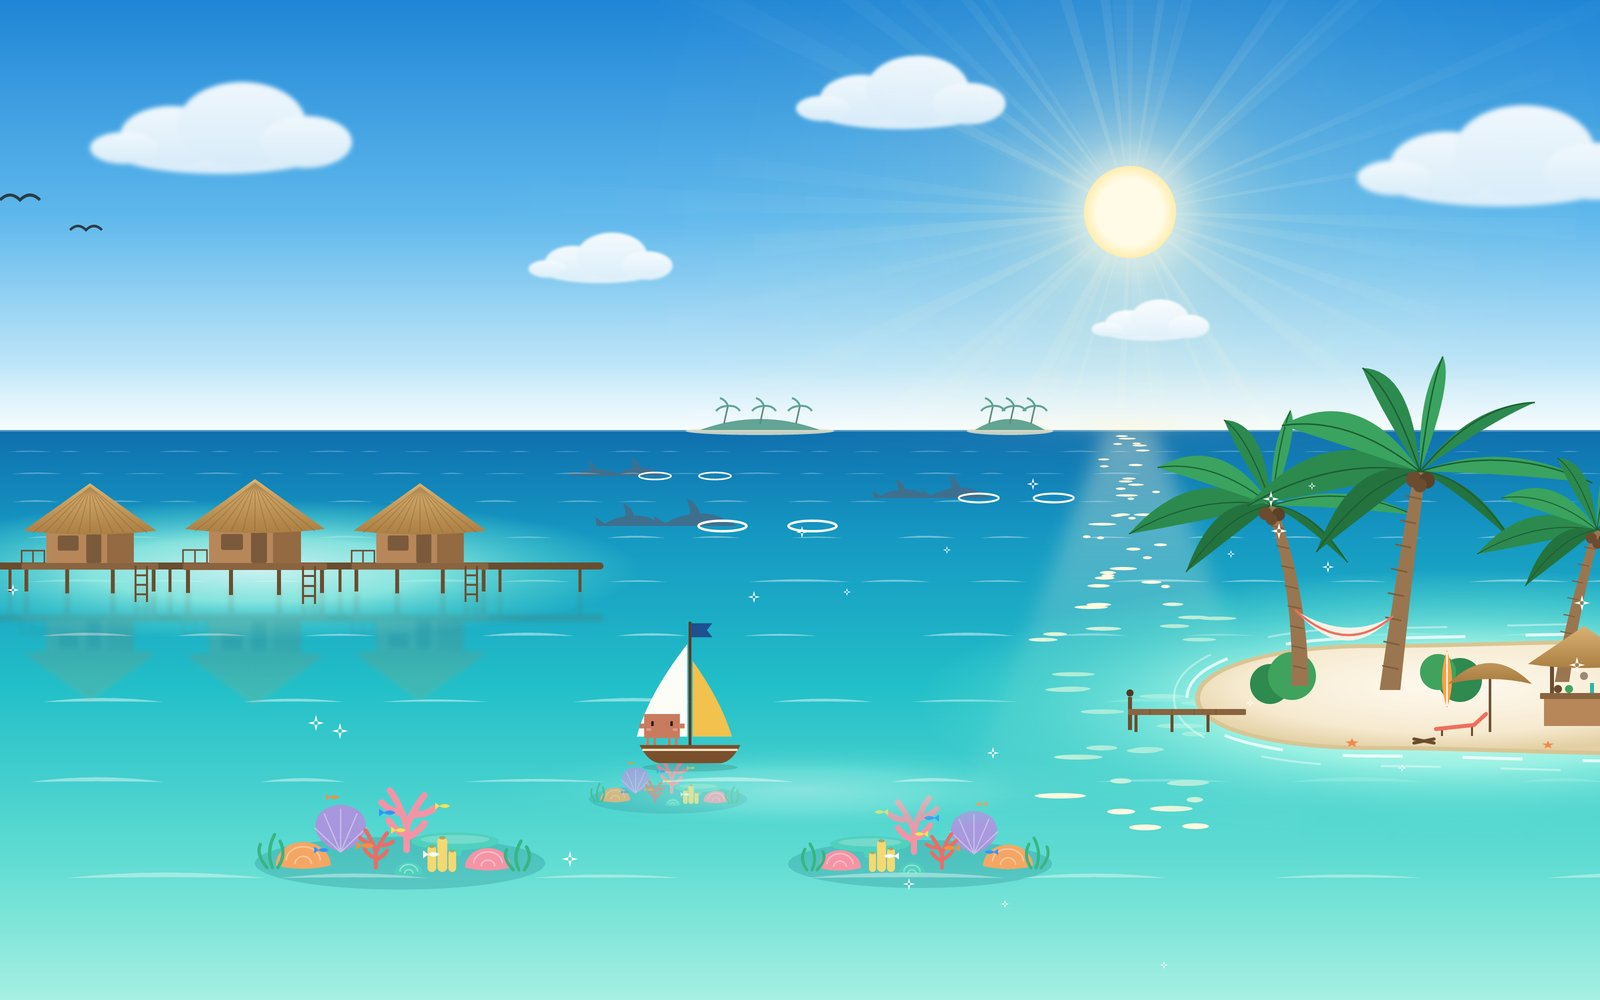
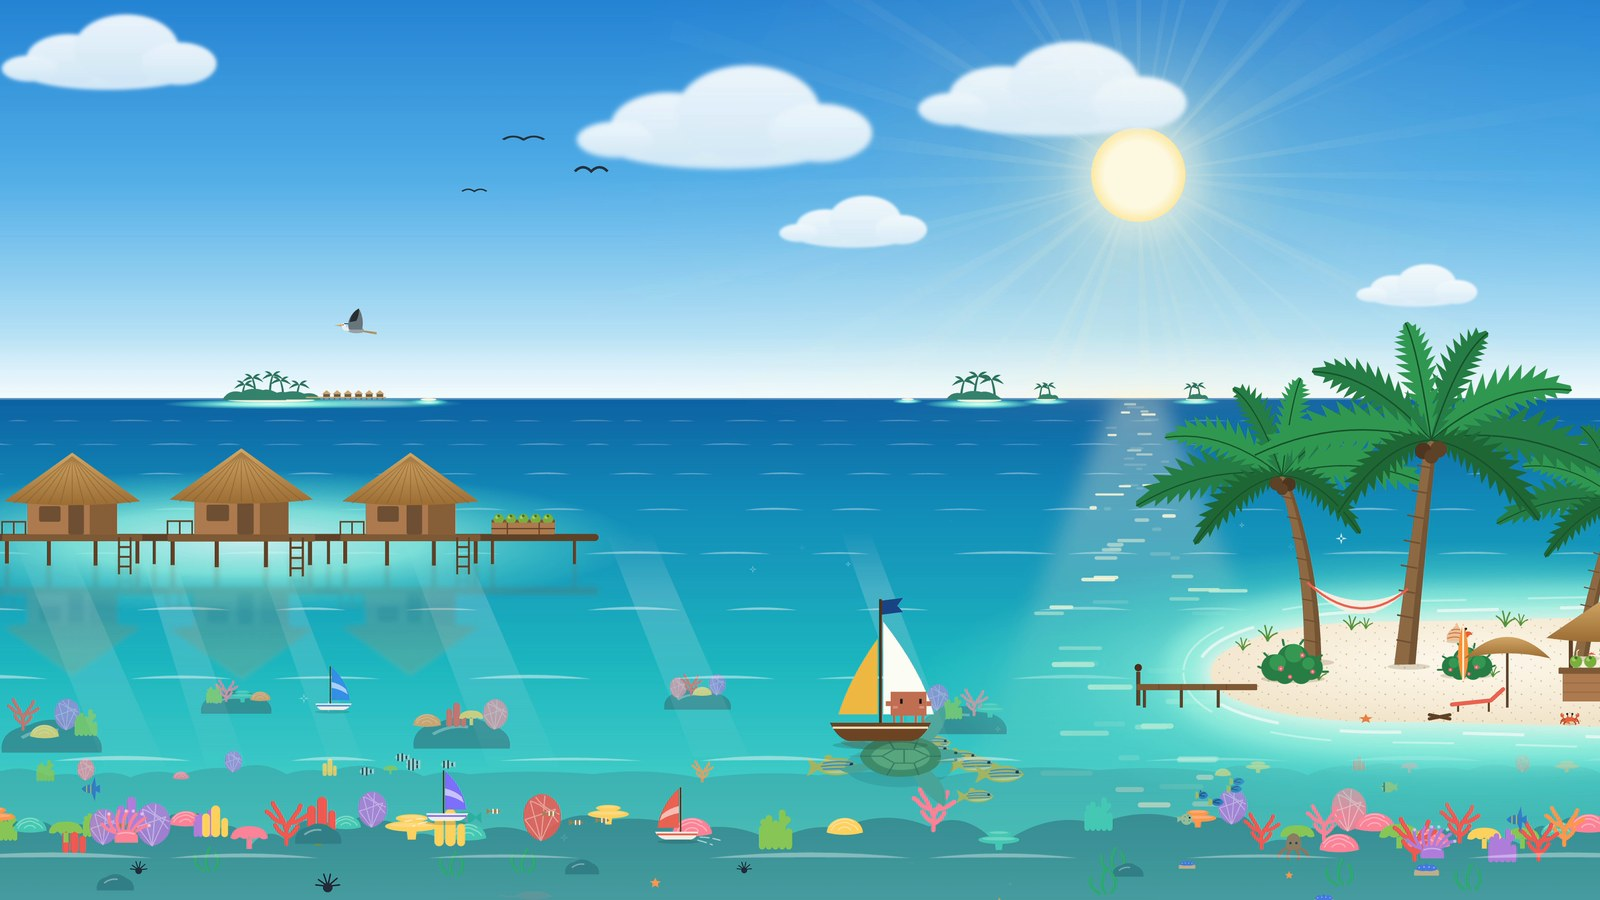
Rewrite the README round pictures of each agent event
What the theme shows is now a grid of screenshots, one for each thing Claude
does (a prompt, work, subagents, background shells, context used, a
compaction, waiting on the person, a push, the end of a turn), in place of
the long description. The day and night pictures are new, from the current
scene. The command list and the notes for developing fold away; the
coconuts command the old list named does not exist and is gone from it.

diff --git a/README.md b/README.md
@@ -1,78 +1,70 @@
 # Maldives theme for Claude
 
-An animated Maldives lagoon behind your conversations in the Claude desktop app. The scene follows what Claude is doing, and Clawd, the little pixel mascot, lives in it.
+A living Maldives lagoon behind your conversations in the Claude desktop app. Whatever Claude is doing, you can see it on the water.
 
 https://github.com/user-attachments/assets/db042e09-37c8-41fc-bdda-ec96829b9b3e
-
 
 | Day | Night |
 | --- | --- |
 | ![The lagoon by day](docs/day.jpg) | ![The lagoon at night](docs/night.jpg) |
 
+It follows the app's light or dark appearance.
 
+## What Claude does, on the water
 
-## What it does
-
-- **While Claude works**, a sailboat fetches Clawd from the island jetty and roams the lagoon with Clawd on deck, from the near water off the villas out to the far water beyond them. On deck Clawd fishes over the side, looks out through a spyglass, hums to itself and hops, waves and leans in between.
-- **When Claude waits on you** (a permission, a question or a plan to approve), the boat flies a flag and its lamp lights up, and Clawd waves.
-- **When the turn is over**, the boat brings Clawd back to the jetty and sails off. Clawd walks home and lives its own day on the island: it fishes off the jetty, naps in the hammock, sunbathes on the lounger, has a drink at the bar and warms up by the fire, in an order that is never quite the same.
-- **The room left in Claude's context** stands as a crate of five coconuts on the water villas' boardwalk, one for each fifth of the room before the conversation is compacted. Each time a fifth is used up, Clawd sails to the end of the boardwalk, hops up, takes a coconut from the crate, drinks it there, tosses the empty shell into the sea with a splash and hops back aboard empty-handed; the empty places in the crate show how much room is gone. Used up while the boat brings Clawd home, Clawd fetches it on the way; used up while Clawd is ashore, on its way out to the next turn's work. When the conversation is compacted, a seaplane comes in on a long shallow descent, touches down flat in a burst of spray and taxis, a wake behind it, to moor behind the end of the boardwalk; Clawd sails over (fetched off the island first if it is home) and waits by the crate, looking out through its spyglass and humming a tune meanwhile. Once the compaction is done the plane throws down a coconut at a time, and Clawd catches each and sets it in the crate, until it holds the room the context has now; then the plane gathers speed across the water, lifts its nose and climbs away. Clawd goes back to work, or home if the turn is over.
-- **Background shells and subagents** show up as fishing boats and dinghies on the water.
-- **Shipping work** (`git push`, `gh pr create`, or a tool that opens a pull or merge request) sets off fireworks.
-- **Sending a prompt** sets the fish leaping.
-- **A coral reef** runs along the near shallows, full of life: clownfish in its anemones, a moray eel in the rocks, an octopus, a stingray, angelfish, butterflyfish, a parrotfish, a pufferfish, and schools of blue tangs, humbug damsels and clownfish swimming to and fro along it. Further out, coral heads dot the lagoon floor under slanting shafts of light, and now and then an eagle ray glides by.
-- **Wildlife** comes and goes on its own: dolphins, a turtle, a manta, schools of bluestriped snappers and bannerfish, and now and then a whale shark gliding far out under the lagoon. A grey heron wades, fishes and drinks in the shallows off the beach and on the sand behind the palms, circling above the water villas a few times as it flies between them; a crab and a hermit crab wander the sand.
-- **The horizon** shows the atoll in two groups with open sea between them: a large palm island sharing its lagoon with a sandbank and a resort's row of overwater villas, whose windows light up at night, and further right a middling island with a small one beside it. Every island sits on white sand that fades into a turquoise halo of shallows.
-- Everything under the water is tinted by it, more the deeper it swims, and the light shafts fall over the swimmers, so nothing reads as floating on the surface. Claude's boat trails foam that grows with its speed.
-- The scene follows the app's light or dark appearance: sun and clouds by day; moon, stars, lit villas and glowing plankton along the shore and in the boats' wakes by night.
-
-The backdrop is drawn by the Claude desktop app (and the mobile app). In a terminal the theme sets its colours only.
+| | | |
+| :---: | :---: | :---: |
+| ![Flying fish leap out of the water](docs/events/prompt.jpg) | ![Clawd sails out on the boat](docs/events/working.jpg) | ![Dinghies out on the lagoon](docs/events/subagents.jpg) |
+| **You send a prompt**<br>The flying fish leap | **Claude works**<br>Clawd sails out | **Subagents**<br>A dinghy each |
+| ![Fishing boats in the shallows](docs/events/shells.jpg) | ![Clawd drinks a coconut by the crate](docs/events/context.jpg) | ![A seaplane moored by the boardwalk](docs/events/compact.jpg) |
+| **Background shells**<br>A fishing boat each | **Context used**<br>A coconut gone per fifth | **Compaction**<br>A seaplane brings a full crate |
+| ![The boat flies a flag](docs/events/waiting.jpg) | ![Fireworks over the lagoon at night](docs/events/push.jpg) | ![Clawd asleep in the hammock](docs/events/idle.jpg) |
+| **Claude waits for you**<br>The boat flies a flag | **A push or a PR**<br>Fireworks | **The turn is over**<br>Home to the island |
 
 ## Install
 
-At the prompt of a Claude Code terminal session:
+In the desktop app: **+** next to the prompt box, **Plugins**, **Add marketplace** with `davidYichengWei/claude-maldives-theme`, then **Add plugin**.
 
-```
-/plugin install maldives --marketplace davidYichengWei/claude-maldives-theme
-```
-
-Answer `y` to add the marketplace, then pick a scope (the user scope makes it apply to every session).
-
-From a shell:
+Or from a shell:
 
 ```bash
 claude plugin install maldives --marketplace davidYichengWei/claude-maldives-theme
 ```
 
-In the desktop app: click **+** next to the prompt box, then **Plugins**, **Add marketplace** with `davidYichengWei/claude-maldives-theme`, then **Add plugin**.
+The backdrop is drawn by the desktop and mobile apps; in a terminal the theme sets its colours only.
 
-## Commands
+## Try it
 
-The **Control Panel** sits above the prompt from the start of a session; **Close** hides it and `/maldives panel` shows or hides it again. Its top row holds four menus, **Hide chat**, **Reset** (back to what Claude is really doing: its state, subagents and background shells) and **Close**. **Hide chat** leaves the conversation out on the desktop and mobile apps (your messages, Claude's replies, tool calls and the working spinner) to show the lagoon whole; a question Claude asks you stays, and **Show chat** brings the rest back. A menu opens its buttons on the rows below, and pressing it again closes them. **Appearance**: light, dark or auto; the panel's language, English or 中文; and the panel opacity, how opaque the app's panels are over the backdrop (0% to 80%, 0% unless chosen), so their text reads more easily. The language and opacity are kept for the next session. **Boats**: **Subagents** (dinghies) and **Background jobs** (fishing boats), − / + each. **Clawd**: **Claude state** as Clawd shows it (idle, working or error; idle also stands for a finished turn) and the fireworks a push or a new PR sets off, what Claude is **waiting for you** on (a tool approval, a question, a plan approval), the **context left** as coconuts (**Use 20%** previews a fifth of the context's room used up, Clawd going for one, fetched off the island first if it is home; **Compact** previews a compaction, the seaplane bringing a full crate), and, while it is idle or done and Clawd is ashore, Clawd's **idle pastime** on the island, each named for where it is spent (fishing, hammock, lounger, bar, fire pit) so it reads right by day and by night. **Wildlife**: call up one more of a passer-by, under the water (snappers, bannerfish, turtle, manta, eagle ray), at the surface (whale shark, shark, a dolphin leap, and the flying fish, which leap as when a prompt is sent and are lit until they are back in the water) or in the sky (gulls); it crosses once beside the ones already out, which carry on. While any of a kind are out its button is lit and counts them (Turtle ×2); with three out it is dimmed until one has gone by. The current choice is highlighted: the scheme, Claude's state, what it waits on and Clawd's pastime.
+The **Control Panel** above the prompt previews every state without waiting for Claude to do the work: boats, coconuts, the seaplane, fireworks, Clawd's pastimes, wildlife, light and dark. **Hide chat** shows the lagoon whole.
 
-`/maldives <what>` previews a state or changes the look. A preview only changes what the backdrop shows; Claude's next real event takes over again, or `reset` brings back what Claude is doing right away:
+`/maldives demo` plays a whole day on its own, about seven and a half minutes, for a screen recording.
+
+<details>
+<summary>All <code>/maldives</code> commands</summary>
+
+A preview only changes what the backdrop shows; Claude's next real event takes over again.
 
 | Command | What it does |
 | --- | --- |
 | `idle`, `working`, `done`, `error` | Show that state |
 | `permission`, `question`, `plan` | Show Claude waiting on you for that |
 | `crew [0-5]`, `shells [0-5]` | Put that many dinghies or fishing boats on the water |
-| `coconuts [0-5]` | Show the crate as if the context had room for that many coconuts: fewer sends Clawd for one, more fills the crate again |
+| `drink`, `resupply` | Use up a fifth of the context; bring a full crate by seaplane |
 | `fireworks` | Fireworks over the lagoon |
-| `island fish`, `nap`, `sun`, `sip`, `fire` | Send Clawd straight to that pastime on the island |
-| `island tour` | A short turn at every pastime, about two minutes in all |
-| `visit snappers`, `bannerfish`, `turtle`, `manta`, `ray`, `whaleShark`, `fin`, `dolphins`, `gulls` | Call up one more of that kind, as the Wildlife menu does |
+| `island fish`, `nap`, `sun`, `sip`, `fire`, `tour` | Send Clawd to that pastime on the island, or round them all |
+| `visit snappers`, `bannerfish`, `turtle`, `manta`, `ray`, `whaleShark`, `fin`, `dolphins`, `gulls` | Call up one more of that kind |
 | `light`, `dark`, `auto` | Force a light or dark scene, or follow the app again |
-| `reset` | Drop the previews and show what Claude is really doing: its state, the subagents and background shells it has running, and the room left in its context |
-| `panel` | Show or hide the Control Panel above the prompt (shown from the start of a session) |
+| `reset` | Drop the previews and show what Claude is really doing |
+| `panel` | Show or hide the Control Panel |
+| `demo`, `demo stop` | Play a whole day on its own; stop it early |
 | `debug` | Print what the backdrop is showing and when it was last drawn |
-| `demo`, `demo stop` | Play a whole day on its own, about seven and a half minutes, for a screen recording. The chat and the Control Panel hide; Clawd fishes and sunbathes, sails out to work with dinghies and fishing boats, drinks two coconuts, meets the seaplane, waits on an approval, works on into the night, sets off fireworks and goes home to the fire pit, the bar and the hammock. The chat and the panel come back at the end; `demo stop` ends it early |
 
-## Developing
+</details>
+
+<details>
+<summary>Developing</summary>
 
 The plugin is a Claude Code hooks module: `hooks/register.tsx` wires it to Claude's events, `hooks/scene.ts` draws the SVG scene, `hooks/voyage.ts` plans the boat trips and Clawd's day, and `hooks/fleet.ts` the other boats. `hooks/make-colors.js` is generated by Claude Code's theme tooling and is kept as it is.
-
-`claude plugin test .` runs the Control Panel's tests in `test/`.
 
 To run your working copy, add the folder as a marketplace and install from it; after an edit, `/reload-plugins` picks the change up:
 
@@ -84,7 +76,7 @@ claude plugin marketplace add /path/to/claude-maldives-theme
 claude plugin install maldives@claude-maldives-theme
 ```
 
-`claude plugin validate .` checks the manifest and the module. The scripts in `dev/` check the scene without the app (`npm install` there first):
+`claude plugin validate .` checks the manifest and the module, and `claude plugin test .` runs the tests in `test/`. The scripts in `dev/` check the scene without the app (`npm install` there first):
 
 | Script | What it checks |
 | --- | --- |
@@ -96,10 +88,14 @@ claude plugin install maldives@claude-maldives-theme
 | `npm run frames` | Renders still frames of a trip and of Clawd's day to PNG |
 | `npm run fleet`, `npm run sides` | Boats come and go, and alternate the edge they use |
 
+</details>
+
 ## 中文说明
 
-一个给 Claude 桌面 App 用的马尔代夫主题：背景是会动的泻湖，跟着 Claude 的状态变化。Claude 工作时，帆船把 Clawd 从岛上的码头接走，载着它在泻湖里四处巡游，从水屋前的近海一直开到远处的海面；Clawd 在船上会钓鱼、举望远镜看风景、哼歌；需要你确认时，船上挂旗、亮灯；工作结束后，船把 Clawd 送回码头，它在岛上过自己的一天，钓鱼、睡吊床、晒太阳、去吧台喝东西、烤火，每天的安排都不一样。安装和命令见上文。
+给 Claude 桌面 App 用的马尔代夫主题：对话背后是一片会动的泻湖，Claude 在做什么，海面上都看得见。派活时飞鱼跃起，工作时 Clawd 乘帆船出海，每个 subagent 是一艘小艇，每个后台任务是一艘渔船；context 每用掉五分之一就少一个椰子，压缩时水上飞机送来一整箱；等你批准时船上挂旗，push 时放烟花，任务结束后 Clawd 回岛休息。
 
 ## License
 
 MIT
+</content>
+</invoke>
